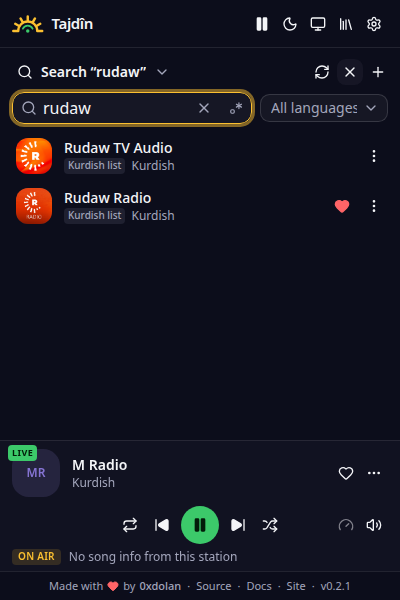
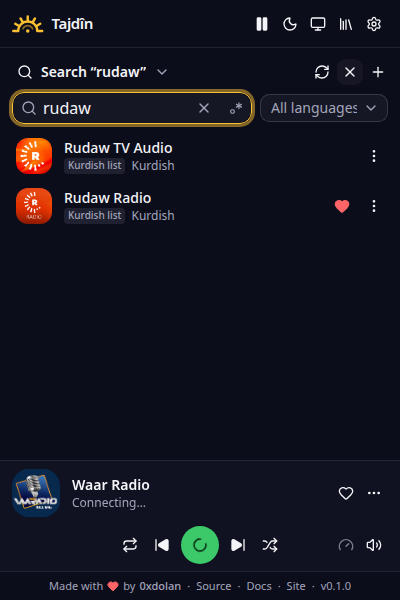
chore: version the rewrite as 0.1.0 and update github actions
0.1.0 follows the last release (0.0.2); a full rewrite is a minor bump
in 0.x. Actions move to their current majors (checkout v7, setup-node
v7, pnpm v6, artifacts v7/v8, pages v5/v6, codeql v4, gh-release v3).

diff --git a/packages/core/test/backup.test.ts b/packages/core/test/backup.test.ts
@@ -34,7 +34,7 @@ describe('backup', () => {
       createBackup({
         settings: { ...DEFAULT_SETTINGS, theme: 'dark' },
         library,
-        appVersion: '0.2.1',
+        appVersion: '0.1.0',
       }),
     );
     const parsed = parseBackup(file);
@@ -59,7 +59,7 @@ describe('backup', () => {
         createBackup({
           settings: DEFAULT_SETTINGS,
           library,
-          appVersion: '0.2.1',
+          appVersion: '0.1.0',
           sections: ['favourites', 'playlists'],
         }),
       ),
@@ -81,7 +81,7 @@ describe('backup', () => {
         createBackup({
           settings: { ...DEFAULT_SETTINGS, theme: 'light' },
           library,
-          appVersion: '0.2.1',
+          appVersion: '0.1.0',
         }),
       ),
     );

diff --git a/packages/ui/src/app/components/footer.tsx b/packages/ui/src/app/components/footer.tsx
@@ -5,7 +5,7 @@ import { LINKS, usePlatform } from '../platform';
 const link =
   'rounded-sm underline-offset-2 hover:text-foreground hover:underline focus-visible:ring-2 focus-visible:ring-ring focus-visible:outline-none';
 
-/** "Made with ♥ by 0xdolan · Source · Docs · Site · v0.2.1" */
+/** "Made with ♥ by 0xdolan · Source · Docs · Site · v0.1.0" */
 export function Footer({ className }: { className?: string }) {
   const { version } = usePlatform();
   return (

diff --git a/CHANGELOG.md b/CHANGELOG.md
@@ -3,7 +3,7 @@
 All notable changes to Tajdîn. The format follows [Keep a Changelog](https://keepachangelog.com/),
 and versions follow [Semantic Versioning](https://semver.org/).
 
-## [0.2.1](https://github.com/0xdolan/tajdin/releases/tag/v0.2.1) · 2026-10-25
+## [0.1.0](https://github.com/0xdolan/tajdin/releases/tag/v0.1.0) · 2026-10-25
 
 Tajdîn has been rebuilt from scratch, with a new design, a new logo and a Firefox version.
 Your favourites, playlists, custom stations and settings from 0.0.x move over automatically.

diff --git a/docs/privacy-policy.md b/docs/privacy-policy.md
@@ -1,6 +1,6 @@
 # Tajdîn privacy policy
 
-**Last updated:** 25 October 2026 (version 0.2.1)
+**Last updated:** 25 October 2026 (version 0.1.0)
 
 Tajdîn is a radio player for Chrome, Firefox and the web. It is open source:
 [github.com/0xdolan/tajdin](https://github.com/0xdolan/tajdin).
